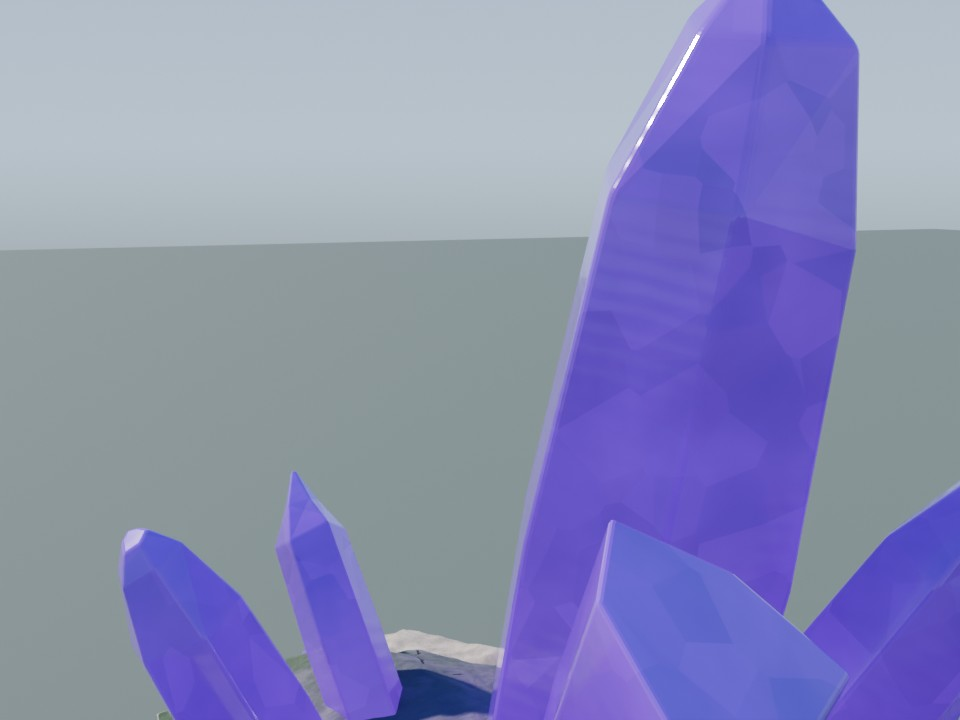
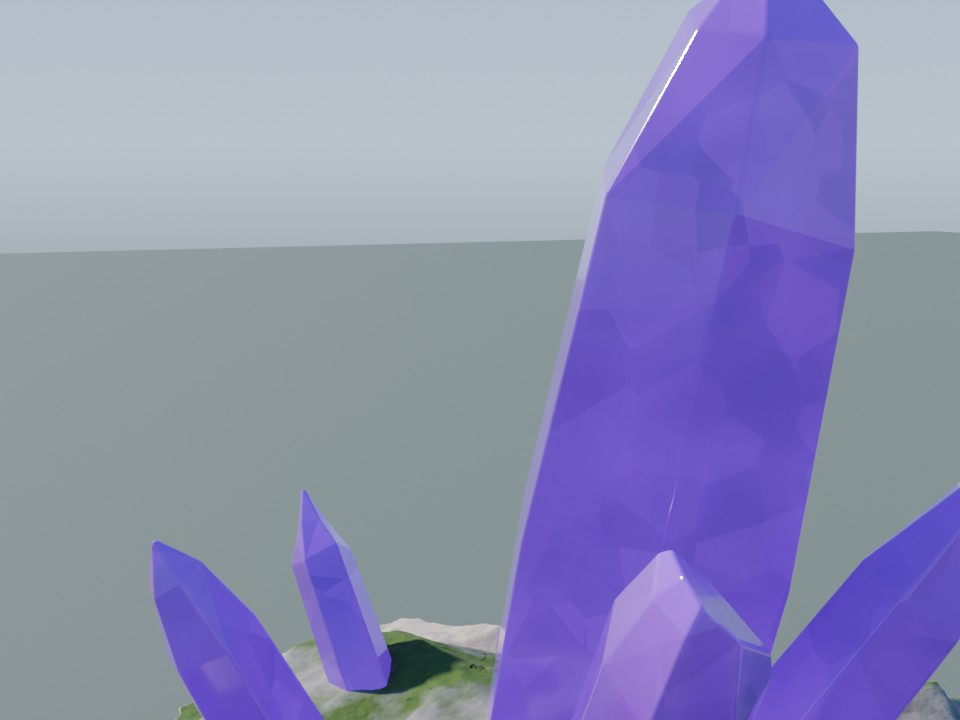
Refine cluster violet hue, rooted limestone mound and tip chips

diff --git a/assets/crystals/crystal_cluster_b/build.py b/assets/crystals/crystal_cluster_b/build.py
@@ -108,21 +108,7 @@ def rock_material():
     L.new(cracked.outputs["Color"], mossy.inputs["Color1"])
     L.new(moss_col.outputs["Color"], mossy.inputs["Color2"])
 
-    # Violet crystal dust close to the cluster centre.
-    dist = N.new("ShaderNodeVectorMath")
-    dist.operation = "LENGTH"
-    L.new(geo.outputs["Position"], dist.inputs[0])
-    dust_mask = N.new("ShaderNodeMapRange")
-    dust_mask.inputs["From Min"].default_value = 0.5
-    dust_mask.inputs["From Max"].default_value = 1.7
-    dust_mask.inputs["To Min"].default_value = 0.55
-    dust_mask.inputs["To Max"].default_value = 0.0
-    L.new(dist.outputs["Value"], dust_mask.inputs["Value"])
-    dusty = N.new("ShaderNodeMixRGB")
-    dusty.inputs["Color2"].default_value = (0.20, 0.07, 0.36, 1)
-    L.new(dust_mask.outputs["Result"], dusty.inputs["Fac"])
-    L.new(mossy.outputs["Color"], dusty.inputs["Color1"])
-    L.new(dusty.outputs["Color"], bsdf.inputs["Base Color"])
+    L.new(mossy.outputs["Color"], bsdf.inputs["Base Color"])
 
     rough = N.new("ShaderNodeMapRange")
     rough.inputs["To Min"].default_value = 0.72
@@ -177,7 +163,10 @@ def crystal_material():
     tint.inputs["Fac"].default_value = 0.45
     L.new(fract.outputs["Color"], tint.inputs["Color1"])
     L.new(body.outputs["Color"], tint.inputs["Color2"])
-    L.new(tint.outputs["Color"], bsdf.inputs["Base Color"])
+    hue = N.new("ShaderNodeHueSaturation")
+    hue.inputs["Hue"].default_value = 0.52
+    L.new(tint.outputs["Color"], hue.inputs["Color"])
+    L.new(hue.outputs["Color"], bsdf.inputs["Base Color"])
 
     veins = N.new("ShaderNodeTexNoise")
     veins.inputs["Scale"].default_value = 2.4
@@ -218,18 +207,6 @@ def crystal_material():
     bsdf.inputs["Coat Roughness"].default_value = 0.04
     bsdf.inputs["IOR"].default_value = 1.6
 
-    # Growth striations running along the crystal axis.
-    stria = N.new("ShaderNodeTexWave")
-    stria.bands_direction = "Z"
-    stria.inputs["Scale"].default_value = 5
-    stria.inputs["Distortion"].default_value = 2.2
-    stria.inputs["Detail"].default_value = 3
-    L.new(coords.outputs["Object"], stria.inputs["Vector"])
-    bump = N.new("ShaderNodeBump")
-    bump.inputs["Strength"].default_value = 0.05
-    bump.inputs["Distance"].default_value = 0.01
-    L.new(stria.outputs["Fac"], bump.inputs["Height"])
-    L.new(bump.outputs["Normal"], bsdf.inputs["Normal"])
     return mat
 
 
@@ -302,7 +279,7 @@ def make_crystal(name, rng, radius, height, mat, chip=None):
         cut = bmesh.ops.bisect_plane(
             bm, geom=bm.verts[:] + bm.edges[:] + bm.faces[:],
             plane_co=(0, 0, height * chip),
-            plane_no=Vector((0.32, -0.24, 1)).normalized(), clear_outer=True)
+            plane_no=Vector((0.85, -0.55, 1)).normalized(), clear_outer=True)
         edges = [e for e in cut["geom_cut"] if isinstance(e, bmesh.types.BMEdge) and e.is_boundary]
         bmesh.ops.holes_fill(bm, edges=edges)
     bmesh.ops.recalc_face_normals(bm, faces=bm.faces)
@@ -349,27 +326,27 @@ def build():
     limestone.name = "Chalk limestone breaks"
     crystal = crystal_material()
 
-    base = make_rock("rock_base", rng, 1.9, 0.25, 7, rock)
-    base.location = (0, 0, 0.12)
+    base = make_rock("rock_base", rng, 1.75, 0.40, 7, rock)
+    base.location = (0, 0, 0.17)
     for i, (angle, dist, radius) in enumerate([(0.6, 1.35, 0.62), (2.7, 1.2, 0.78), (4.4, 1.3, 0.55), (5.5, 0.95, 0.5)]):
-        lump = make_rock(f"rock_lump_{i}", rng, radius, rng.uniform(0.4, 0.6), 6, rock if i % 2 else limestone)
-        lump.location = (math.cos(angle) * dist, math.sin(angle) * dist, radius * 0.16)
+        lump = make_rock(f"rock_lump_{i}", rng, radius, rng.uniform(0.6, 0.85), 6, rock if i % 2 else limestone)
+        lump.location = (math.cos(angle) * dist, math.sin(angle) * dist, radius * 0.28)
         lump.rotation_euler = Euler((rng.uniform(-0.3, 0.3), rng.uniform(-0.3, 0.3), rng.uniform(0, 6.28)))
     for i in range(9):
         angle, dist, radius = rng.uniform(0, math.tau), rng.uniform(1.5, 2.1), rng.uniform(0.09, 0.2)
         pebble = make_rock(f"rock_pebble_{i}", rng, radius, rng.uniform(0.55, 0.8), 4, rock)
         pebble.location = (math.cos(angle) * dist, math.sin(angle) * dist, radius * 0.25)
 
-    main = make_crystal("crystal_main", rng, 0.43, 2.8, crystal, chip=0.95)
-    place(main, rng, 2.2, 0.24, math.radians(12), 0.25)
+    main = make_crystal("crystal_main", rng, 0.43, 2.8, crystal, chip=0.97)
+    place(main, rng, 2.2, 0.24, math.radians(12), 0.35)
 
     for i in range(5):
         angle = math.tau * i / 5 + rng.uniform(-0.25, 0.25)
-        height = [1.25, 2.05, 1.65, 2.3, 1.1][i]
-        chip = {0: 0.96, 1: 0.64, 3: 0.92}.get(i)
-        c = make_crystal(f"crystal_mid_{i}", rng, height * rng.uniform(0.12, 0.16), height,
+        height = [1.25, 1.65, 1.65, 2.3, 1.1][i]
+        chip = {1: 0.90, 3: 0.96}.get(i)
+        c = make_crystal(f"crystal_mid_{i}", rng, height * rng.uniform(0.105, 0.13), height,
                          crystal, chip=chip)
-        place(c, rng, angle, rng.uniform(0.55, 0.8), math.radians(rng.uniform(23, 42)), 0.28)
+        place(c, rng, angle, rng.uniform(0.48, 0.7), math.radians(rng.uniform(23, 42)), 0.32)
 
     for i in range(9):
         angle = rng.uniform(0, math.tau)
